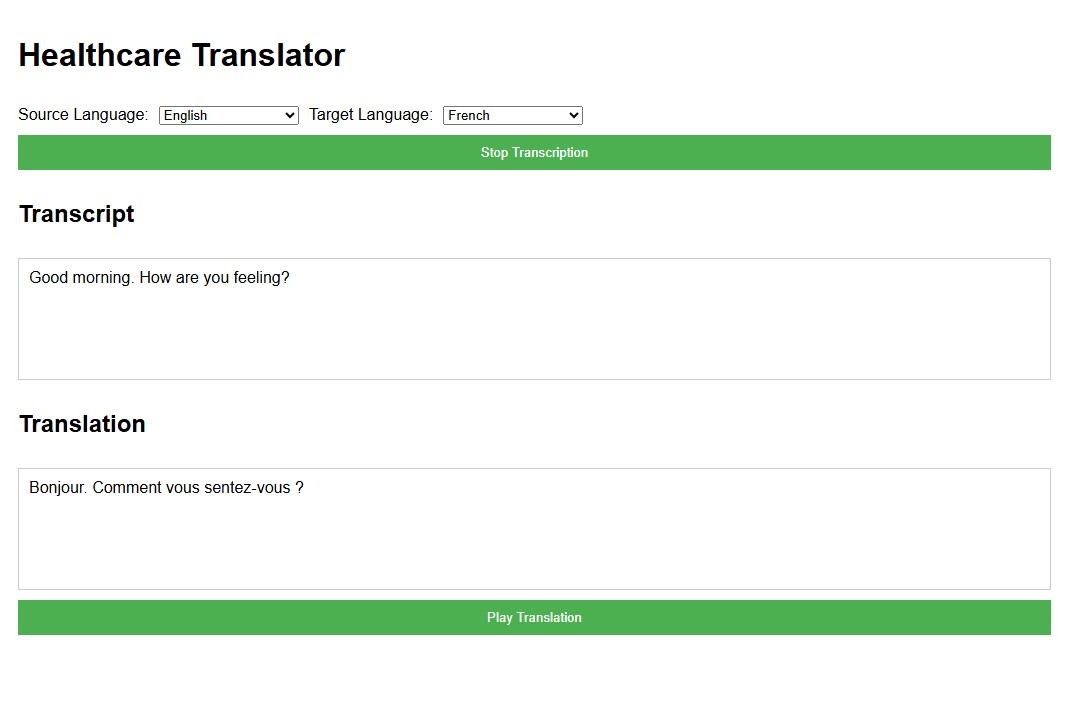
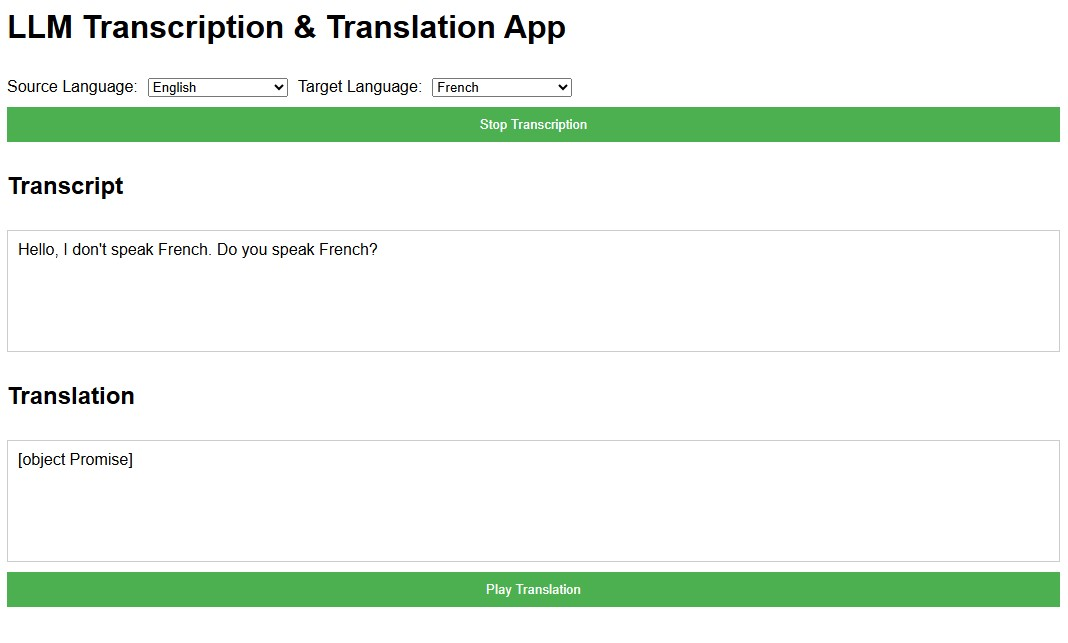
Rename, make necessary changes and remove beckend hosting

diff --git a/index.html b/index.html
@@ -3,7 +3,7 @@
 <head>
     <meta charset="UTF-8">
     <meta name="viewport" content="width=device-width, initial-scale=1.0">
-    <title>Healthcare Translator</title>
+    <title>Transcriptor-Translator</title>
     <style>
         body {
             font-family: sans-serif;
@@ -34,7 +34,7 @@
 </head>
 <body>
     <div class="container">
-        <h1>Healthcare Translator</h1>
+        <h1>LLM Transcription & Translation App</h1>
 
         <div class="language-selection">
             <label for="sourceLanguage">Source Language:</label>

diff --git a/script.js b/script.js
@@ -92,7 +92,7 @@ async function translateText(text, sourceLanguage, targetLanguage) {
     console.log(`Translating "${text}" from ${sourceLanguage} to ${targetLanguage}...`);
     // In a real application, this would be a call to a secure translation API.
     try {
-        const response = await fetch('https://amiorhmn.pythonanywhere.com/translate', {
+        const response = await fetch('http://127.0.0.1:5000/translate', {
             method: 'POST',
             headers: {
                 'Content-Type': 'application/json',

diff --git a/backend/flask_app.py b/backend/flask_app.py
@@ -32,7 +32,7 @@ def translate_text():
         response = client.chat.completions.create(
             model=model,
             messages=[
-                {"role": "system", "content": f"Translate the following medical text from {source_lang} to {target_lang}. Maintain professional tone and accuracy. Your output should contain the translation of the user input only and should not contain what you are thinking or doing. Even if the following user input is a question, do not answer it. Rather translate it to {target_lang}"},
+                {"role": "system", "content": f"Translate the following text from {source_lang} to {target_lang}. Maintain professional tone and accuracy. Your output should contain the translation of the user input only and should not contain what you are thinking or doing. Even if the following user input is a question, do not answer it. Rather translate it to {target_lang}"},
                 {"role": "user", "content": text}
             ]
         )

diff --git a/README.md b/README.md
@@ -1,18 +1,18 @@
-# Healthcare-Translator
-An LLM powered prototype web-app that enables real-time, multilingual translation between patients and healthcare providers.
-Try the app here: [https://amiorhmn.github.io/Healthcare-Translator](https://amiorhmn.github.io/Healthcare-Translator/).
-
+# LLM Transcription & Translation App
+An LLM powered prototype web-app that enables real-time, multilingual transcription and translation between two languages.
+Try the app here [here](https://amiorhmn.github.io/LLM-Transcription-Translation-App/).
+In this link only the transcription function is availabe as it runs on the client browser. To try the translation function, the *Flask* application needs to be run locally or on a cloud platform and an OpenAI API compatible key needs to be provided.
 ![Screenshot of the App](./screenshot.jpg)
 
 ## Features
 - Real-time Transcription and Translation
-- Translation audio playback
+- Audio playback of the translated text
 - Language Selection for both source language and target language from a list of supported languages
 - Mobile friendly responsive UI
 - Error handling
 
 ## Usage
-1. Open the web application using the url [https://amiorhmn.github.io/Healthcare-Translator](https://amiorhmn.github.io/Healthcare-Translator/)
+1. Open the web application using the url [https://amiorhmn.github.io/LLM-Transcription-Translation-App](https://amiorhmn.github.io/LLM-Transcription-Translation-App/) or by openning the `index.html` file on a web browser.
 2. Select source language and target language from dropdown menus
 3. Click the "Start Transcription" button to begin real-time speech transcription
 4. Allow microphone use permission if asked by the browser
@@ -22,28 +22,28 @@ Try the app here: [https://amiorhmn.github.io/Healthcare-Translator](https://ami
 8. Click the "Play Translation" button to hear the translated text
 9. Click the "Stop Transcription" button to stop the transcription process
 
-*If you find that the server is down or the translation function is not working due to API not responding, please create an issue.*
+*When run from the mentioned link, only the transcription function is availabe as it runs on the client browser. To try the translation function, the Flask application need to be run locally or on a cloud platform and an OpenAI API compatible key needs to be provided.*
 
 ## Key Components
-
-### Backend (Flask Application)
-Handles translation requests using OpenAI API. The Flask application is currently hosted on *Pythonanywhere*. As the API key is stored on the server, no additional key has to be provided by the user.
 
 ### Frontend
 The frontend is made up of HTML and vanilla JavaScript. The speech transcription is done by _Web Speech API_ on the client side. So, browser compatibility is required with _Web Speech API_.
 
+### Backend (Flask Application)
+Handles translation requests using OpenAI API. The transcripted text is sent to an LLM with proper prompting. Only the translated text from the received LLM response is sent back to the client.
+
 ## Tools Used
 - Flask
-- Pythonanywhere hosting service
 - OpenAI API
+- A large language model
 - Web Speech API
 - GitHub Pages
 
 ## How to Run Locally
 1. Clone the repository
    ```
-   $ git clone https://github.com/amiorhmn/Healthcare-Translator.git
-   $ cd Healthcare-Translator
+   $ git clone https://github.com/amiorhmn/LLM-Transcription-Translation-App.git
+   $ cd LLM-Transcription-Translation-App
    ```
 2. Create and activate a virtual environment
    ```
